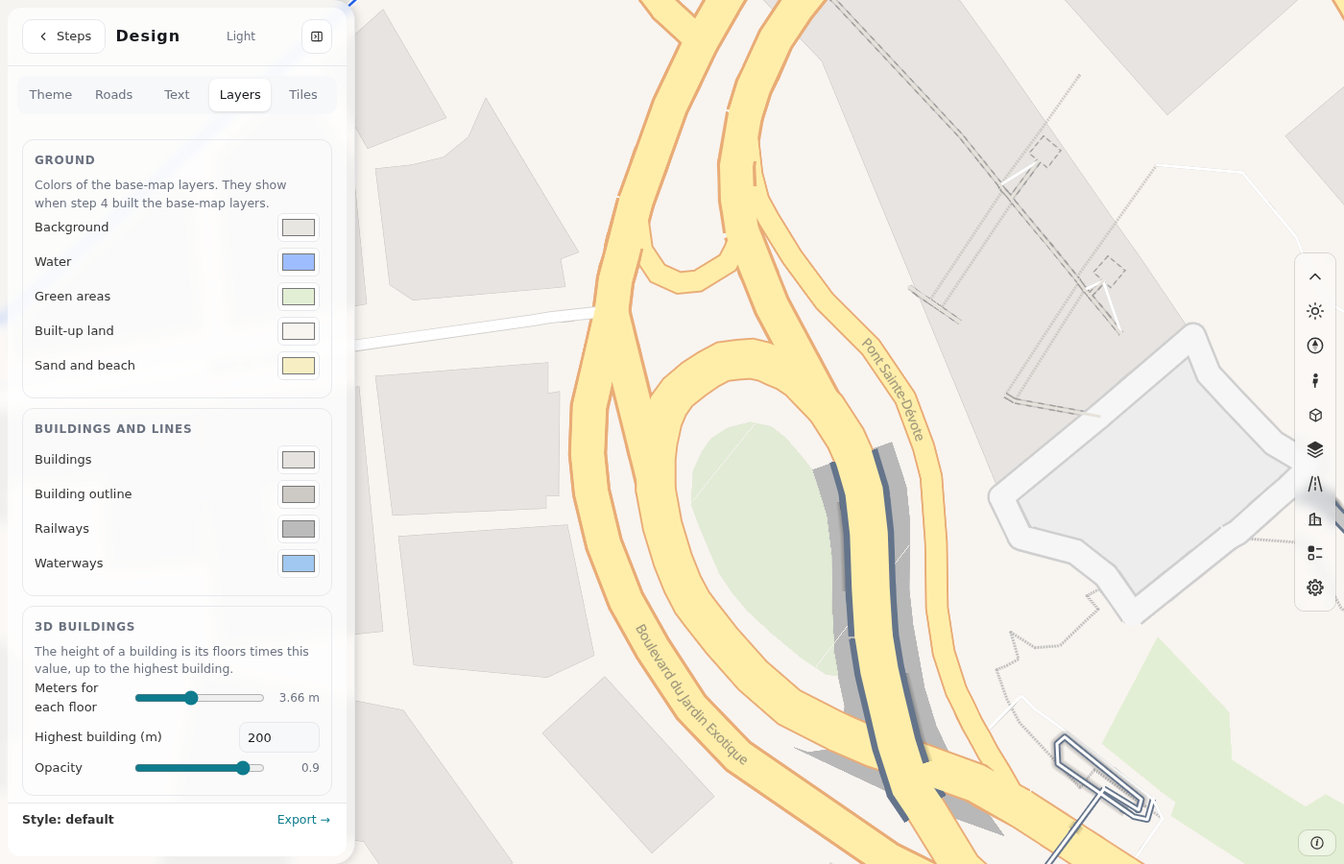
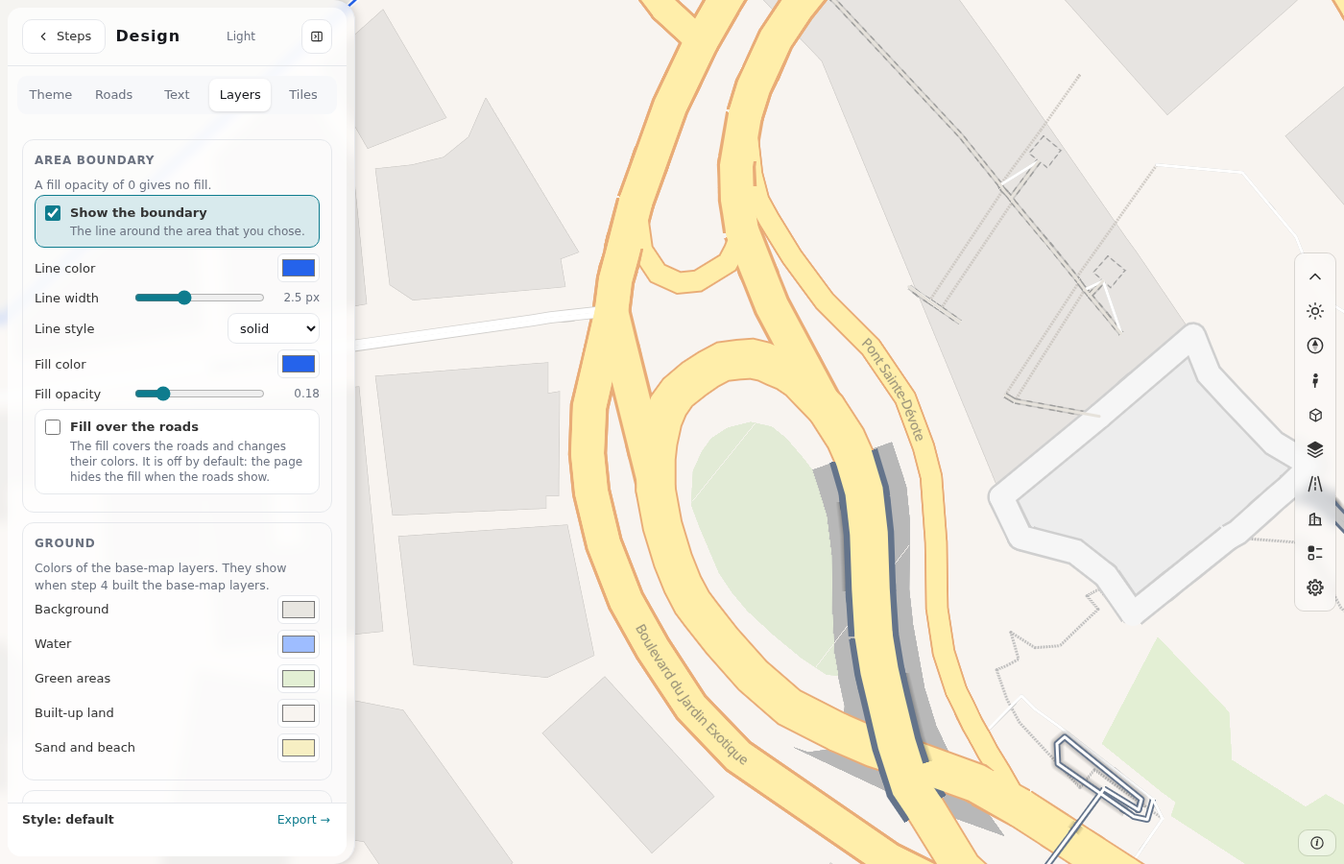
Design panel: the boundary of the area (show or hide, line, fill)
Add an "Area boundary" section to the Layers tab: a switch, the line color,
width and style, the fill color and opacity, and a switch to keep the fill
over the roads. The values are design.boundary. They are in the design file,
the four themes, Reset and the saved area. The page paints the layers
area-line, area-casing and area-fill at once, with no new draw of the roads.

Changed region(s): [[0.0, 0.1556, 0.2457, 0.9022], [0.1843, 0.3733, 0.2457, 0.4667]]

diff --git a/crates/duckosm-wasm/www/app/design_panel.js b/crates/duckosm-wasm/www/app/design_panel.js
@@ -2,9 +2,9 @@
 // (index.html, #design-panel): a header, five tabs and a bar. This file owns the design (app/design.js) and draws the tabs; the page gives it
 // the look (map/look.json), the way to draw the map again with a new look, and the places to keep the design.
 //
-//   initDesignPanel({ $, esc, look, redraw, onProfile, onSave }) -> { open, close, isOpen, tab, get, text, set, patchProfile, profile, load, setCount, flush, state }
+//   initDesignPanel({ $, esc, look, redraw, onProfile, onBoundary, onSave }) -> { open, close, isOpen, tab, get, text, set, patchProfile, profile, boundary, load, setCount, flush, state }
 //
-// A change of the style draws the map again after 0.5 s of quiet (`redraw(lookObject, isDefault, draw)`: it gives the look to the map and, with `draw`, draws). A change of the profile calls `onProfile(profile)`;
+// A change of the style draws the map again after 0.5 s of quiet (`redraw(lookObject, isDefault, draw)`: it gives the look to the map and, with `draw`, draws). A change of the profile calls `onProfile(profile)`, and a change of the boundary calls `onBoundary(boundary)` (the page paints it at once: no new draw of the roads);
 // the Export card reads the profile through `profile()`.
 import * as D from "./design.js";
 
@@ -22,10 +22,11 @@ const setPath = (o, path, v) => {
   o[last] = v;
 };
 
-export async function initDesignPanel({ $, esc, look, redraw, onProfile = () => {}, onSave = () => {} }) {
+export async function initDesignPanel({ $, esc, look, redraw, onProfile = () => {}, onBoundary = () => {}, onSave = () => {} }) {
   const base = D.defaultsOf(look);
   let design = structuredClone(base), tab = "theme", lastKey = null, timer = null, busy = false, again = false, note = "", counts = { text: "", bad: false };
-  const styleKey = (d) => JSON.stringify({ ...d, name: 0, theme: 0, profile: 0 });
+  const styleKey = (d) => JSON.stringify({ ...d, name: 0, theme: 0, profile: 0, boundary: 0 });       // the profile and the boundary are not in the look: they draw no new map
+  const announce = () => { onProfile(design.profile); onBoundary(design.boundary); };
   const profile = () => design.profile;
 
   // ---- the controls ----
@@ -56,7 +57,16 @@ export async function initDesignPanel({ $, esc, look, redraw, onProfile = () => 
       + number("From zoom", "labels.minzoom", design.labels.minzoom, 8, 20), "Smaller roads show their names two zooms later.")
     + sec("One-way arrows", color("Color", "arrows.color", design.arrows.color) + range("Size", "arrows.size", design.arrows.size, 0.5, 3, 0.1, " ×") + number("From zoom", "arrows.minzoom", design.arrows.minzoom, 8, 20),
       "The switch for the arrows is in the Layers box of the map bar.");
-  const paneLayers = () => sec("Ground", color("Background", "base.background", design.base.background) + color("Water", "base.water", design.base.water) + color("Green areas", "base.green", design.base.green)
+  const paneBoundary = () => {
+    const b = design.boundary, off = b.show ? "" : "disabled";
+    return sec("Area boundary", check("Show the boundary", "boundary.show", b.show, "The line around the area that you chose.")
+      + color("Line color", "boundary.color", b.color).replace("<input", `<input ${off}`) + range("Line width", "boundary.width", b.width, 0.5, 6, 0.5, " px").replace("<input", `<input ${off}`)
+      + `<label class="drow2"><span>Line style</span><select data-p="boundary.dash" ${off}>${Object.keys(D.BOUNDARY_DASH).map((k) => `<option value="${k}" ${b.dash === k ? "selected" : ""}>${k}</option>`).join("")}</select></label>`
+      + color("Fill color", "boundary.fill", b.fill).replace("<input", `<input ${off}`) + range("Fill opacity", "boundary.fillOpacity", b.fillOpacity, 0, 1, 0.02).replace("<input", `<input ${off}`)
+      + check("Fill over the roads", "boundary.fillOnRoads", b.fillOnRoads, "The fill covers the roads and changes their colors. It is off by default: the page hides the fill when the roads show.", off),
+      "A fill opacity of 0 gives no fill.");
+  };
+  const paneLayers = () => paneBoundary() + sec("Ground", color("Background", "base.background", design.base.background) + color("Water", "base.water", design.base.water) + color("Green areas", "base.green", design.base.green)
       + color("Built-up land", "base.land", design.base.land) + color("Sand and beach", "base.sand", design.base.sand), "Colors of the base-map layers. They show when step 4 built the base-map layers.")
     + sec("Buildings and lines", color("Buildings", "base.buildings", design.base.buildings) + color("Building outline", "base.buildingLine", design.base.buildingLine)
       + color("Railways", "base.railways", design.base.railways) + color("Waterways", "base.waterways", design.base.waterways))
@@ -129,7 +139,7 @@ export async function initDesignPanel({ $, esc, look, redraw, onProfile = () => 
   function schedule(ms = 500) { clearTimeout(timer); timer = setTimeout(run, ms); }
   const changed = () => {
     design = D.normalize(design, base);
-    save(); schedule(); onProfile(design.profile); paintBar();
+    save(); schedule(); announce(); paintBar();
   };
 
   // ---- events ----
@@ -148,6 +158,7 @@ export async function initDesignPanel({ $, esc, look, redraw, onProfile = () => 
     setPath(design, p, el.tagName === "SELECT" && p === "profile.extent" ? +v : v);
     if (el.type === "range") el.parentElement.querySelector("output").textContent = `${+(+v).toFixed(2)}${el.dataset.unit}`;
     if (p.startsWith("profile.")) { design.profile.preset = "custom"; if (el.type === "checkbox" || el.tagName === "SELECT") return (changed(), paint()); }
+    else if (p === "boundary.show") { design.theme = "custom"; return (changed(), paint()); }
     else if (p !== "name") design.theme = "custom";
     changed();
   });
@@ -178,7 +189,7 @@ export async function initDesignPanel({ $, esc, look, redraw, onProfile = () => 
   $("design-pane").addEventListener("change", (e) => { if (e.target.dataset.p === "name") { design.name = e.target.value; changed(); paintBar(); } });
   for (const t of TABS) $(`design-tab-${t}`).onclick = () => tabTo(t);
 
-  function set(d) { design = D.normalize(d, base); save(); schedule(0); onProfile(design.profile); paint(); }
+  function set(d) { design = D.normalize(d, base); save(); schedule(0); announce(); paint(); }
   /** A change of the profile from outside the panel (the Export card, the tile format select). */
   function patchProfile(part) {
     design.profile = D.normalizeProfile({ ...design.profile, preset: "custom", ...part });
@@ -187,7 +198,7 @@ export async function initDesignPanel({ $, esc, look, redraw, onProfile = () => 
   /** A stored design (the text of a file). A bad text keeps the design that is now. `draw: false` only gives the look to the page (the next draw has it). */
   async function load(text, { draw = true } = {}) {
     try { design = D.fromFile(text, base); } catch (_) { return false; }
-    onProfile(design.profile);
+    announce();
     if (draw) schedule(0);
     else { lastKey = styleKey(design); await redraw(D.applyToLook(look, design), lastKey === styleKey(base), false); }
     paint(); paintBar();
@@ -197,7 +208,7 @@ export async function initDesignPanel({ $, esc, look, redraw, onProfile = () => 
   function open() { document.body.classList.add("editing-design"); paint(); }
   function close() { document.body.classList.remove("editing-design"); }
   return {
-    open, close, isOpen, tab: tabTo, get: () => design, text: () => D.toFile(design), set, load, patchProfile, profile, base: () => base,
+    open, close, isOpen, tab: tabTo, get: () => design, text: () => D.toFile(design), set, load, patchProfile, profile, boundary: () => design.boundary, base: () => base,
     flush: async () => { clearTimeout(timer); await run(); while (busy) await new Promise((r) => setTimeout(r, 50)); },
     setCount: (text, bad) => { counts = { text, bad }; const el = $("design-count"); if (el) { el.textContent = text; el.classList.toggle("bad", !!bad); } },
     state: () => note,

diff --git a/crates/duckosm-wasm/www/app/design.js b/crates/duckosm-wasm/www/app/design.js
@@ -3,6 +3,9 @@
 // so a design file does not depend on the look that it was made from.
 //
 //   style    roads (fill, casing, width factor), labels, arrows, base map (water, land, buildings, railways), 3D buildings, dark mode
+//   boundary the line and the fill of the boundary of the area on the map: `design.boundary` = {show, color, width, dash, fill, fillOpacity, fillOnRoads}.
+//            It is not in the look (the page paints its layers `area-line`, `area-casing` and `area-fill`), so a change draws no new map.
+//            Other modules (the PNG and SVG exports) read this one object. `dash` is a key of BOUNDARY_DASH.
 //   profile  zoom range, layers, columns of the layer `edges`, the zoom where each road class starts, extent, buffer, tile limit, format
 //
 // The style is written into roadstyle's look (map/look.json, the sections of its version 2) with `applyToLook`. The map worker then makes the
@@ -31,6 +34,10 @@ export const EDGE_COLUMNS = ["edge_id", "osm_id", "edge_ref", "name", "highway",
 /** The zoom where each road class starts in the layer `edges` (a lower class is left out at a lower zoom). Other classes start at `OTHER_FROM`. */
 export const CLASS_FROM = { motorway: 0, trunk: 0, primary: 0, secondary: 8, tertiary: 10, unclassified: 11, residential: 12, living_street: 12 };
 export const OTHER_FROM = 13;
+/** The dash styles of the boundary line: the pattern in multiples of the line width (MapLibre's `line-dasharray`), or null for a solid line. */
+export const BOUNDARY_DASH = { solid: null, dashed: [3, 2], dotted: [1, 1.5], "dash-dot": [4, 1.5, 1, 1.5] };
+/** The boundary of the page before the design card: a solid blue line of 2.5 px on a white casing, a blue fill of 0.18 that shows only before the roads are drawn. */
+export const defaultBoundary = () => ({ show: true, color: "#2563eb", width: 2.5, dash: "solid", fill: "#2563eb", fillOpacity: 0.18, fillOnRoads: false });
 export const LIMITS = { zoom: [0, 18], extent: [1024, 8192], buffer: [0, 256], tiles: [1000, 200000] };
 
 const clone = (x) => JSON.parse(JSON.stringify(x));
@@ -103,6 +110,7 @@ export function defaultsOf(look) {
       railways: toHex(look.base_map.style.lines?.railways?.color) ?? "#bbbbbb", waterways: toHex(look.base_map.style.lines?.waterways?.color) ?? "#a0c8f0",
       m_per_level: num(b3?.m_per_level, 3.66), max_height: num(b3?.max_height, 200), height_opacity: num(b3?.opacity, 0.9),
     },
+    boundary: defaultBoundary(),
     dark: { roads: [...look.dark.line.lightness], casing: [...look.dark.casing.lightness], areas: [...look.dark.area.lightness], labels: [...look.dark.label.lightness], background: toHex(look.background.dark) ?? "#0e1113" },
     profile: defaultProfile(),
   };
@@ -130,6 +138,13 @@ export function normalize(d, base) {
     if (Array.isArray(r) && r.length === 2 && r.every((x) => Number.isFinite(+x))) out.dark[k] = [clamp(+r[0], [0, 1]), clamp(+r[1], [0, 1])];
   }
   out.dark.background = hex(d.dark?.background, out.dark.background);
+  const bd = d.boundary ?? {};
+  out.boundary = {
+    show: bd.show ?? out.boundary.show, color: hex(bd.color, out.boundary.color), width: clamp(num(bd.width, out.boundary.width), [0.5, 8]),
+    dash: Object.hasOwn(BOUNDARY_DASH, bd.dash) ? bd.dash : out.boundary.dash, fill: hex(bd.fill, out.boundary.fill),
+    fillOpacity: clamp(num(bd.fillOpacity, out.boundary.fillOpacity), [0, 1]), fillOnRoads: bd.fillOnRoads ?? out.boundary.fillOnRoads,
+  };
+  out.boundary.show = !!out.boundary.show; out.boundary.fillOnRoads = !!out.boundary.fillOnRoads;
   out.profile = normalizeProfile(d.profile ?? out.profile);
   return out;
 }
@@ -206,18 +221,21 @@ export const THEMES = [
     roads: { fill: BY({ motorway: "#e0a458", trunk: "#d6b36a", primary: "#c9b98a", secondary: "#9aa7b4", tertiary: "#8793a0", cycleway: "#4f9a6a" }, "#6b7683"),
       casing: ALL("#14181c"), width: Object.fromEntries(GROUPS.map(([g]) => [g, 1])) },
     labels: { color: "#d8dde3", halo_color: "#12161a", halo_width: 1.5 }, arrows: { color: "#c6ccd3" },
+    boundary: { color: "#7cc4ff", fill: "#7cc4ff", fillOpacity: 0.12 },
     base: { background: "#1b1f24", water: "#1d3a56", green: "#233427", land: "#20252b", sand: "#3a3a2e", buildings: "#2d333a", buildingLine: "#3a424a", railways: "#6b7280", waterways: "#2b5278" } }) },
   { id: "traffic", name: "Traffic", note: "Quiet grey roads and a pale ground. The colours of flow or speed stand out.", make: (b) => paint(b, {
     name: "Traffic", theme: "traffic",
     roads: { fill: BY({ motorway: "#8d939a", trunk: "#9a9fa6", primary: "#a6abb1", secondary: "#b3b7bc" }, "#c5c8cc"), casing: ALL("#9ea2a8"),
       width: Object.fromEntries(GROUPS.map(([g]) => [g, ["major", "primary", "secondary"].includes(g) ? 1.15 : 1])) },
     labels: { color: "#6b7078", halo_color: "#ffffff", halo_width: 1.2 }, arrows: { color: "#6b7078" },
+    boundary: { color: "#1d4ed8", width: 2, dash: "dashed" },
     base: { background: "#eeeeec", water: "#cfdce8", green: "#e5e9df", land: "#f3f3f1", sand: "#ecebe3", buildings: "#e3e3e1", buildingLine: "#d3d3d0", railways: "#c2c4c7", waterways: "#bfd0e0" } }) },
   { id: "print", name: "Print", note: "White ground, dark outlines, black text. Roads are wider. Good on paper.", make: (b) => paint(b, {
     name: "Print", theme: "print",
     roads: { fill: BY({ motorway: "#f4b183", trunk: "#f8cbad", primary: "#fff2cc", secondary: "#ffffff", cycleway: "#c9dcf0" }, "#ffffff"), casing: ALL("#3a3a3a"),
       width: Object.fromEntries(GROUPS.map(([g]) => [g, 1.25])) },
     labels: { color: "#000000", halo_color: "#ffffff", halo_width: 2 }, arrows: { color: "#000000" },
+    boundary: { color: "#000000", width: 1.5, dash: "dashed", fillOpacity: 0 },
     base: { background: "#ffffff", water: "#d4e6f6", green: "#e8f1de", land: "#fafafa", sand: "#f6f0d6", buildings: "#dcdcdc", buildingLine: "#8a8a8a", railways: "#000000", waterways: "#9cc3e6" } }) },
 ];
 

diff --git a/crates/duckosm-wasm/www/index.html b/crates/duckosm-wasm/www/index.html
@@ -918,6 +918,21 @@ maplibregl.addProtocol("rs", async (params, abort) => ({ data: await duck.tile(p
 const setData = (src, data) => loaded.then(() => map.getSource(src).setData(data ?? empty));
 
 const blue = "#2563eb";
+// the boundary of the area on the map: the layers area-fill, area-casing and area-line take the values of the design (card 10, designLib.defaultBoundary: the blue line of
+// the page before the card). The fill of the page hides while the roads show, because it would change their colors; the design can turn it on over the roads.
+let boundaryNow = designLib.defaultBoundary();
+function paintBoundary(onRoads = roadsShown) {
+  if (!map.getLayer("area-line")) return;
+  const b = boundaryNow, vis = (on) => (on ? "visible" : "none");
+  for (const id of ["area-line", "area-casing"]) map.setLayoutProperty(id, "visibility", vis(b.show));
+  map.setPaintProperty("area-line", "line-color", b.color);
+  map.setPaintProperty("area-line", "line-width", b.width);
+  map.setPaintProperty("area-line", "line-dasharray", designLib.BOUNDARY_DASH[b.dash] ?? undefined);
+  map.setPaintProperty("area-casing", "line-width", b.width + 3.5);          // the white casing is 3.5 px wider than the line (6 px for 2.5)
+  map.setPaintProperty("area-fill", "fill-color", b.fill);
+  map.setPaintProperty("area-fill", "fill-opacity", b.fillOpacity);
+  map.setLayoutProperty("area-fill", "visibility", vis(b.show && b.fillOpacity > 0 && (!onRoads || b.fillOnRoads)));
+}
 const shape = { fillColor: blue, fillOpacity: 0.15, outlineColor: blue, outlineWidth: 2 };
 const validation = (f) => ValidateNotSelfIntersecting(f);
 // select: drag a shape to move it; drag a corner of a rectangle or a point of a circle to resize it; drag a
@@ -973,6 +988,7 @@ loaded.then(() => {
   map.addLayer({ id: "pin-halo", type: "circle", source: "pin", paint: { "circle-radius": 16, "circle-color": blue, "circle-opacity": 0.25 } });
   map.addLayer({ id: "pin", type: "circle", source: "pin", paint: { "circle-radius": 7, "circle-color": blue, "circle-stroke-color": "#fff", "circle-stroke-width": 3 } });
   map.on("zoomend", pin);
+  paintBoundary();
   draw.start();
   window.mapReady = true;
 });
@@ -2070,7 +2086,7 @@ function removeRoads() {
   roadsShown = false;
   for (const l of map.getStyle().layers) if (l.id.startsWith("rs-")) map.removeLayer(l.id);
   for (const id of Object.keys(map.getStyle().sources)) if (id.startsWith("rs-")) map.removeSource(id);
-  if (map.getLayer("area-fill")) map.setLayoutProperty("area-fill", "visibility", "visible");
+  paintBoundary(false);
 }
 const addImages = (images) => Promise.all(Object.entries(images).map(([n, v]) => new Promise((done) => {
   const o = typeof v === "string" ? { url: v } : v, img = new Image();
@@ -2142,7 +2158,7 @@ async function addRoadStyle(style) {
     const layer = JSON.parse(json);
     map.addLayer({ ...layer, id: "rs-" + l.id, source: "rs-" + l.source }, "area-fill");
   }
-  map.setLayoutProperty("area-fill", "visibility", "none");   // the fill would change the colors of the roads
+  paintBoundary(true);   // the fill would change the colors of the roads: it hides, unless the design says that it covers the roads
   addOverview(style);
 }
 // MapLibre draws a tile that is not loaded yet from loaded tiles of the same source, but only from its parents and from children up to 3
@@ -2659,7 +2675,7 @@ function designChanged(p) {
 }
 function designSaved(text) {
   const d = JSON.parse(text);
-  designEdited = designLib.changes({ ...d, profile: 0 }, { ...designPanel.base(), profile: 0 }).length > 0;
+  designEdited = designLib.changes({ ...d, profile: 0 }, { ...designPanel.base(), profile: 0 }).length > 0;       // the boundary counts as style
   $("design-sum").textContent = `${d.name}${designEdited ? " (changed)" : ""}. Tile profile: ${designLib.PROFILES[d.profile.preset]?.name ?? "your own"}.`;
   refreshSteps();
   clearTimeout(designSave);
@@ -2667,7 +2683,7 @@ function designSaved(text) {
 }
 try {
   const look = await fetch("map/look.json").then((r) => r.json());
-  designPanel = await initDesignPanel({ $, esc, look, redraw: redrawDesign, onProfile: designChanged, onSave: designSaved });
+  designPanel = await initDesignPanel({ $, esc, look, redraw: redrawDesign, onProfile: designChanged, onBoundary: (b) => { boundaryNow = b; paintBoundary(); }, onSave: designSaved });
   let stored = null;
   try { stored = localStorage.getItem("duckosm.design"); } catch (_) { /* no storage: the default design */ }
   if (!(stored && await designPanel.load(stored, { draw: false }))) designPanel.patchProfile({ format: duck.tileFormat, preset: "analysis" });     // no design yet: the tile format that the person chose before

diff --git a/crates/duckosm-wasm/www/design_e2e.py b/crates/duckosm-wasm/www/design_e2e.py
@@ -133,6 +133,49 @@ with sync_playwright() as p:
     assert "#abcdef" in base, "the building color is in the style"
     print("layers: ok")
 
+    # Boundary (Layers tab): the layers area-line, area-casing and area-fill take the values at once, with no new draw of the roads
+    def bpaint():
+        return page.evaluate("""() => { const m = window.duckMap, g = (id, k) => m.getLayoutProperty(id, k);
+            return { color: m.getPaintProperty('area-line', 'line-color'), width: m.getPaintProperty('area-line', 'line-width'), dash: m.getPaintProperty('area-line', 'line-dasharray') ?? null,
+                     casing: m.getPaintProperty('area-casing', 'line-width'), line: g('area-line', 'visibility'), cas: g('area-casing', 'visibility'), fill: g('area-fill', 'visibility'),
+                     fillColor: m.getPaintProperty('area-fill', 'fill-color'), opacity: m.getPaintProperty('area-fill', 'fill-opacity') }; }""")
+    tiles_url = lambda: page.evaluate("window.duckMap.getStyle().sources['rs-roads'].tiles[0]")
+    page.click("#design-tab-layers")
+    assert page.locator("#design-pane h3").first.text_content() == "Area boundary"
+    gen = tiles_url()
+    b0 = page.evaluate("window.designPanel.boundary()")
+    assert bpaint()["color"] == b0["color"] == "#7cc4ff" and bpaint()["line"] == "visible" and bpaint()["fill"] == "none", ("the Dark theme has its boundary; the fill hides while the roads show", bpaint())
+    set_input(page, "[data-p='boundary.color']", "#ff00ff")
+    set_input(page, "[data-p='boundary.width']", 4)
+    page.select_option("[data-p='boundary.dash']", "dashed")
+    b = bpaint()
+    assert b["color"] == "#ff00ff" and b["width"] == 4 and b["dash"] == [3, 2] and b["casing"] == 7.5, b
+    assert page.evaluate("window.designPanel.boundary().dash") == "dashed" and page.evaluate("window.designPanel.get().theme") == "custom"
+    page.uncheck("#design-pane [data-p='boundary.show']")
+    b = bpaint()
+    assert b["line"] == "none" and b["cas"] == "none" and b["fill"] == "none" and page.is_disabled("#design-pane [data-p='boundary.color']") and page.is_disabled("#design-pane [data-p='boundary.fillOnRoads']")
+    page.check("#design-pane [data-p='boundary.show']")
+    set_input(page, "[data-p='boundary.fill']", "#00ff00")
+    set_input(page, "[data-p='boundary.fillOpacity']", 0.3)
+    assert bpaint()["fill"] == "none", "the fill stays off the roads unless the design says so"
+    page.check("#design-pane [data-p='boundary.fillOnRoads']")
+    b = bpaint()
+    assert b["fill"] == "visible" and b["fillColor"] == "#00ff00" and b["opacity"] == 0.3, b
+    page.uncheck("#design-pane [data-p='boundary.fillOnRoads']")
+    assert bpaint()["fill"] == "none"
+    assert tiles_url() == gen and not page.evaluate("window.mapDrawing"), "a boundary change draws no new map"
+    page.click("#design-tab-theme")
+    page.click("#design-pane [data-look=print]")
+    b = bpaint()
+    assert b["color"] == "#000000" and b["dash"] == [3, 2] and b["width"] == 1.5 and page.evaluate("window.designPanel.boundary().fillOpacity") == 0
+    page.click("#design-pane [data-look=light]")
+    assert bpaint()["color"] == "#2563eb" and bpaint()["dash"] is None and bpaint()["width"] == 2.5 and page.evaluate("window.designPanel.boundary()") == {"show": True, "color": "#2563eb", "width": 2.5, "dash": "solid", "fill": "#2563eb", "fillOpacity": 0.18, "fillOnRoads": False}
+    settled(page)
+    page.click("#design-tab-layers")
+    set_input(page, "[data-p='boundary.color']", "#ff00ff")
+    page.select_option("[data-p='boundary.dash']", "dotted")
+    print("boundary: ok")
+
     # Tiles: a ready profile fills the fields, the Export card shows them, and the files follow them
     page.click("#design-tab-tiles")
     page.click("#design-pane [data-profile=web]")
@@ -193,8 +236,9 @@ with sync_playwright() as p:
     d.value.save_as(file)
     saved = json.loads(file.read_text())
     assert file.name == "my_roads.design.json" and saved["format"] == "duckosm-design" and saved["version"] == 1 and saved["name"] == "My roads"
-    assert saved["roads"]["fill"]["primary"] == "#ff0000" and saved["base"]["buildings"] == "#abcdef" and saved["profile"]["extent"] == 2048
-    saved["name"] = "Loaded one"; saved["roads"]["fill"]["primary"] = "#00aa00"
+    assert saved["profile"]["extent"] == 2048 and saved["theme"] == "custom" and saved["roads"]["fill"]["primary"] == "#ffeeaa", "the file has the design as it is now (the Light theme, then the boundary)"
+    assert saved["boundary"]["color"] == "#ff00ff" and saved["boundary"]["dash"] == "dotted" and saved["boundary"]["show"] is True, saved["boundary"]
+    saved["name"] = "Loaded one"; saved["roads"]["fill"]["primary"] = "#00aa00"; saved["boundary"]["color"] = "#00ffaa"
     other = out / "other.design.json"
     other.write_text(json.dumps(saved))
     page.set_input_files("#design-file", str(other))
@@ -202,6 +246,7 @@ with sync_playwright() as p:
     assert page.evaluate("window.designPanel.get().roads.fill.primary") == "#00aa00" and "Loaded" in page.text_content("#design-where")
     settled(page)
     assert "#00aa00" in style_text(page), "a loaded file draws"
+    assert bpaint()["color"] == "#00ffaa", "a loaded file sets the boundary"
     (out / "bad.json").write_text("{}")
     page.set_input_files("#design-file", str(out / "bad.json"))
     page.wait_for_function("/not loaded/.test(document.getElementById('design-where').textContent)")
@@ -231,6 +276,7 @@ with sync_playwright() as p:
     page.wait_for_function("/drawn|failed/.test(document.getElementById('mapnote').textContent) && !window.mapDrawing", timeout=600_000)
     assert page.evaluate("window.designPanel.get().name") == "Loaded one"
     assert "#00aa00" in style_text(page), "the first draw of the saved area has its design"
+    assert bpaint()["color"] == "#00ffaa" and page.evaluate("window.designPanel.boundary().dash") == "dotted", "the saved area has its boundary"
     print("restore: ok")
 
     assert not errors, errors

diff --git a/CHANGELOG.md b/CHANGELOG.md
@@ -7,6 +7,7 @@ All versions are on the GitHub Releases page of `Khoshkhah/duckosm-rust`. There 
 
 ### Added
 
+- **The boundary of the area in the Design panel (Layers tab).** A switch shows or hides the line around the area. When it is on, you set the line color, width and style (`solid`, `dashed`, `dotted`, `dash-dot`), the fill color and opacity, and whether the fill covers the roads. The default is the blue line of the page before the card (2.5 px, no fill over the roads). The values are `design.boundary` (`{show, color, width, dash, fill, fillOpacity, fillOnRoads}`): they are in the design file, the four themes, Reset and the saved area. The page paints the layers `area-line`, `area-casing` and `area-fill` with them at once, with no new draw of the roads (`paintBoundary` in `index.html`). Other modules, for example a picture export, read the same object.
 - **Card 10, Design, in the browser page**: the style of the map and the profile of the tiles, in a panel of its own (like the fixes panel: **Steps** and **Hide panel** in the header, five tabs, a bar). **Theme** has four ready themes (Light, Dark, Traffic, Print), the name of the design, **Download**, **Load a file** and **Reset**. **Roads** has the fill and the casing of 14 classes, a width factor for 9 groups, and the lightness ranges of the dark theme. **Text** has the street names and the one-way arrows. **Layers** has the colors of the ground, water, green areas, built-up land, sand, buildings, railways and waterways, and the 3D buildings. **Tiles** has the tile profile: zooms, layers (roads, base map, edges), the columns of the layer `edges`, the zoom where each road class starts, extent, buffer, tile limit and tile format, with three ready profiles (Web map small, Analysis, Simulation preview). A change of the style draws the map again after half a second: the page writes the design into roadstyle's look (`app/design.js`, `applyToLook`) and the map worker reads that look (`map_worker.js`, `data.look`). Card 9 uses the same profile: its zoom fields, **Layer edges** and **The highest zoom that fits the limit** are fields of the profile. The design is kept in the browser and with the saved area (`design.json`, `areaStore.saveDesign`; a new build keeps it). Tests: `design_units.mjs`, `design_e2e.py`, `phone_design_e2e.py`. The guide is in `docs/dashboard.md`.
 - **The Export card has the tile profile in place of "Everything".** The old check box is now **Layer edges**, with its own zoom fields and **The highest zoom that fits the limit**. At the first visit the profile is Analysis, which gives the same file as "Everything" gave. The export can now leave out the roads or the base-map layers, keep only some columns in the layer `edges`, and start each road class at a zoom that you set. The check of a PMTiles file counts only the classes that start at or below the highest zoom.
 - **Unselect the area, the H3 row and "Your areas" picks in the browser page**: **Unselect the area** (cards 1 and 2, or a second click on the chosen search result) removes the boundary so that another part can be chosen. The base-map box has a row **H3 hexagons** (roadstyle's `rsAddTopRow`) that shows or hides the grid, and a build from hexagons hides it (only the boundary stays). A click on a row of **Your areas** shows its boundary on the map and zooms to it, a second click hides it, and **Open** loads it. The page no longer redraws the boundary of the last build at the start (it showed with the row's boundary), and a build no longer saves the blank base map as the person's choice, so the next visit starts on OpenFreeMap.

diff --git a/docs/dashboard.md b/docs/dashboard.md
@@ -364,7 +364,7 @@ The panel has five tabs.
 | **Theme** | Four ready themes (Light, Dark, Traffic, Print), the name of the design, and **Download**, **Load a file** and **Reset**. |
 | **Roads** | The fill and the casing of 14 road classes, the width of 9 groups of classes, and the colors of the dark theme. |
 | **Text** | The street names (color, halo, size, first zoom) and the one-way arrows (color, size, first zoom). |
-| **Layers** | The colors of the ground, water, green areas, built-up land, sand, buildings, railways and waterways, and the height of 3D buildings. |
+| **Layers** | The boundary of the area (show or hide, line, fill), the colors of the ground, water, green areas, built-up land, sand, buildings, railways and waterways, and the height of 3D buildings. |
 | **Tiles** | The tile profile: zooms, layers, columns, class zooms, extent, buffer, tile limit and tile format. |
 
 ### Theme
@@ -402,7 +402,21 @@ The street names have a color, a halo (a color and a width), a size factor and a
 
 ![The Layers tab](img/dashboard/30-design-layers.png)
 
-The colors are for the base-map layers of step 4. A map that was built without the base-map layers has no ground, water or buildings to color. One color covers a group of land-use classes: **Green areas** covers forest, wood, grass, park and others, and **Built-up land** covers residential, commercial, industrial and others. The 3D buildings have a height for each floor, a highest building and an opacity.
+The tab starts with the **Area boundary** section. The other sections are the colors of the base-map layers of step 4. A map that was built without the base-map layers has no ground, water or buildings to color. One color covers a group of land-use classes: **Green areas** covers forest, wood, grass, park and others, and **Built-up land** covers residential, commercial, industrial and others. The 3D buildings have a height for each floor, a highest building and an opacity.
+
+**Area boundary** is the line around the area that you chose in step 1. It has these fields:
+
+| Field | What it does |
+|---|---|
+| **Show the boundary** | On by default. Off hides the line, its white casing and the fill. The other fields are then off. |
+| **Line color** and **Line width** | A blue line of 2.5 px at the first visit. The width is 0.5 to 6 px. |
+| **Line style** | `solid`, `dashed`, `dotted` or `dash-dot`. |
+| **Fill color** and **Fill opacity** | The fill of the area. An opacity of 0 gives no fill. |
+| **Fill over the roads** | Off by default. Before the roads are drawn, the fill shows. After that, the page hides it, because it changes the colors of the roads. Turn this switch on to keep the fill over the roads. |
+
+The boundary is not part of roadstyle's look. A change shows at once, and the page does not draw the roads again. The four themes have their own boundary: Print has a thin black dashed line and no fill, Dark has a light blue line. **Reset** goes back to the blue line.
+
+The values are in one object, `design.boundary` (`{show, color, width, dash, fill, fillOpacity, fillOnRoads}`), in the design file and in the saved area. `designPanel.boundary()` gives it, and `BOUNDARY_DASH` in `app/design.js` gives the pattern of each `dash` value. Other modules read these values, for example a picture export.
 
 ### Tiles
 

diff --git a/docs/app.md b/docs/app.md
@@ -588,6 +588,7 @@ Card 10 sets the style of the map and the profile of the tiles (the guide is in 
 - **Why a new draw and not a paint change.** The colors of a road are in the tile data (an index into the colors of the style), so a new color needs new tiles. The page draws the map again, as it does for a change of network.
 - **What the look cannot change.** The tiles of roadstyle have the extent 4096 (the engine says `tiles.extent is 2048, the tiles are made with 4096`). The extent and the buffer of the profile are for the layer `edges` only. A draw that fails keeps the old map, and the panel shows the message.
 - **The profile.** `PROFILES` has Web map small, Analysis and Simulation preview. Card 9 reads `designPanel.profile()` for the zooms, the layers (`layerKeep` drops `simple`, `slots` or the `ov*` layers from the tiles of the worker), and the options of `edgeTiles` (columns, extent, buffer, class start zooms). Its fields call `designPanel.patchProfile`. The format of the map follows the profile: `profile.format` and the select **Map tiles** of card 6 are one value.
+- **The boundary.** `design.boundary` has the line and the fill of the area boundary. It is not in the look: `paintBoundary` (`index.html`) sets the paint of `area-line`, `area-casing` and `area-fill`, and the panel calls it through `onBoundary`. A change draws no new map. The fill hides while the roads show (as before the card) unless `fillOnRoads` is on.
 - **Where it is kept.** `localStorage` key `duckosm.design` (the last design) and `design.json` in the folder of the saved area (`areaStore.saveDesign` and `loadDesign`). `saveArea` removes every file of an older build except `design.json`. A restore reads the file before the first draw.
 - **Tests.** `design_units.mjs` (Node: the default design, each theme in `Look.fromJson`, repair of wrong values, the file, the tile writers), `design_e2e.py` (Monaco: each tab changes the style of the live map, the profile reaches the Export card and its files, Download and Load, the stored copy and the saved area) and `phone_design_e2e.py` (390 x 844).
 
